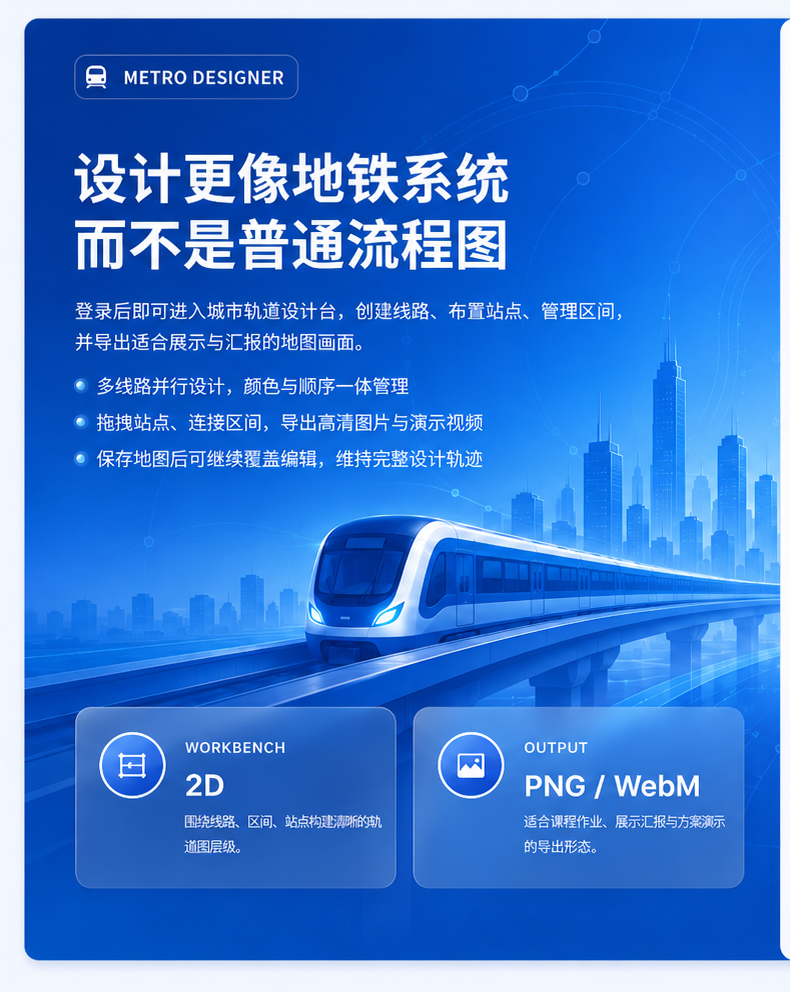
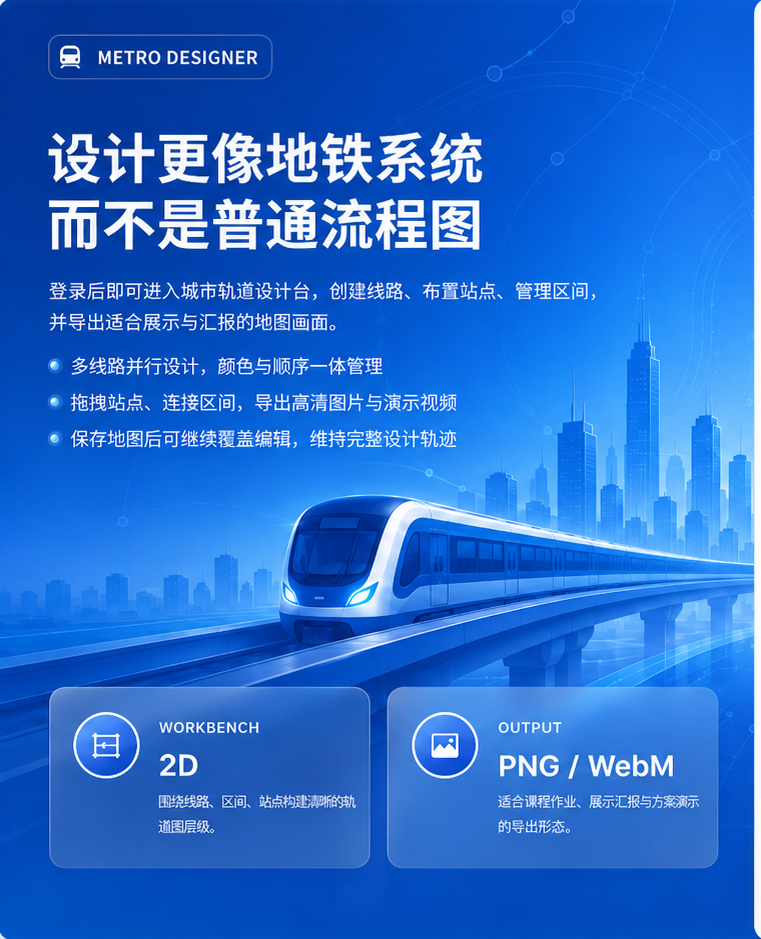
fix auth panel alignment

diff --git a/src/styles.css b/src/styles.css
@@ -2099,3 +2099,179 @@ body[data-interface-theme="dark"] .metro-modal-root :where(.ant-radio-button-wra
     font-size: 30px !important;
   }
 }
+
+/* Auth final alignment and register stability */
+.auth-layout {
+  min-height: 100vh;
+  padding: clamp(24px, 4vh, 40px) 24px;
+  overflow: auto;
+}
+
+.auth-card {
+  width: min(1120px, calc(100vw - 48px));
+  height: clamp(680px, calc(100vh - 80px), 720px);
+  min-height: 0;
+  overflow: hidden;
+  border-radius: 10px !important;
+}
+
+.auth-card__inner {
+  grid-template-columns: minmax(0, 48%) minmax(0, 52%);
+  height: 100%;
+  min-height: 0;
+}
+
+.auth-card__info {
+  display: block;
+  height: 100%;
+  min-height: 0;
+  padding: 0;
+  gap: 0;
+  overflow: hidden;
+  background: #075bd8;
+}
+
+.auth-card__info::before,
+.auth-card__info::after,
+.auth-card__form::before {
+  display: none;
+}
+
+.auth-hero-image {
+  display: block;
+  width: 100%;
+  height: 100%;
+  object-fit: cover;
+  object-position: center;
+}
+
+.auth-card__form {
+  display: flex;
+  align-items: center;
+  justify-content: center;
+  height: 100%;
+  min-height: 0;
+  padding: 48px 56px;
+  overflow: hidden;
+}
+
+.auth-form-shell {
+  width: min(470px, 100%);
+  max-height: 100%;
+  overflow: auto;
+  padding: 2px 0;
+}
+
+.auth-card--register .auth-form-title {
+  font-size: 30px !important;
+}
+
+.auth-card--register .auth-form-subtitle {
+  margin-top: 6px;
+  font-size: 13px;
+  line-height: 1.5;
+}
+
+.auth-card--register .auth-card__form {
+  padding: 32px 56px;
+}
+
+.auth-card--register .auth-switcher {
+  margin-top: 18px;
+}
+
+.auth-card--register .auth-switcher__btn {
+  height: 40px;
+}
+
+.auth-card--register .auth-form {
+  margin-top: 16px;
+}
+
+.auth-card--register .auth-form :where(.ant-form-item) {
+  margin-bottom: 8px;
+}
+
+.auth-card--register .auth-form :where(.ant-form-item-label) {
+  padding-bottom: 4px;
+}
+
+.auth-card--register .auth-form :where(.ant-form-item-label > label) {
+  font-size: 13px;
+  line-height: 1.35;
+}
+
+.auth-card--register .auth-form :where(.ant-input-affix-wrapper),
+.auth-card--register .auth-form :where(.ant-input) {
+  min-height: 42px;
+}
+
+.auth-card--register .auth-form :where(.ant-input-prefix) {
+  font-size: 16px;
+}
+
+.auth-card--register .auth-submit-btn.ant-btn {
+  height: 48px;
+  margin-top: 4px;
+}
+
+.auth-card--register .auth-form-footer {
+  margin-top: 14px;
+  padding-top: 14px;
+  font-size: 12px;
+  line-height: 1.45;
+}
+
+@media (max-width: 1120px) {
+  .auth-layout {
+    padding: 16px;
+  }
+
+  .auth-card {
+    width: min(100%, calc(100vw - 32px));
+    height: auto;
+    min-height: 0;
+  }
+
+  .auth-card__inner {
+    grid-template-columns: 1fr;
+    height: auto;
+  }
+
+  .auth-card__info {
+    height: clamp(360px, 56vw, 520px);
+    min-height: 0;
+  }
+
+  .auth-card__form {
+    height: auto;
+    min-height: 0;
+    padding: 44px 24px;
+    overflow: visible;
+  }
+
+  .auth-form-shell {
+    max-height: none;
+    overflow: visible;
+  }
+}
+
+@media (max-width: 720px) {
+  .auth-layout {
+    padding: 0;
+  }
+
+  .auth-card {
+    width: 100%;
+    min-height: 100vh;
+    border-radius: 0 !important;
+  }
+
+  .auth-card__info {
+    height: clamp(340px, 94vw, 430px);
+  }
+
+  .auth-card__form {
+    padding: 32px 18px 42px;
+  }
+}

diff --git a/src/components/AuthPanel.tsx b/src/components/AuthPanel.tsx
@@ -1,6 +1,7 @@
 import React, { useState } from 'react';
 import { Button, Form, Input, Typography } from 'antd';
 import { ArrowRightOutlined, LockOutlined, PhoneOutlined, UserOutlined } from '@ant-design/icons';
+import authHeroImage from '../assets/auth-metro-hero.png';
 
 interface AuthPanelProps {
   onLogin: (payload: { phone: string; password: string }) => void | Promise<void>;
@@ -47,7 +48,9 @@ const AuthPanel: React.FC<AuthPanelProps> = ({ onLogin, onRegister }) => {
   return (
     <div className={`auth-card auth-card--${mode}`}>
       <div className="auth-card__inner">
-        <section className="auth-card__info" aria-hidden="true" />
+        <section className="auth-card__info" aria-hidden="true">
+          <img className="auth-hero-image" src={authHeroImage} alt="" />
+        </section>
 
         <section className="auth-card__form">
           <div className="auth-form-shell">

diff --git a/src/react-app-env.d.ts b/src/react-app-env.d.ts
@@ -1,0 +1,1 @@
+/// <reference types="react-scripts" />
